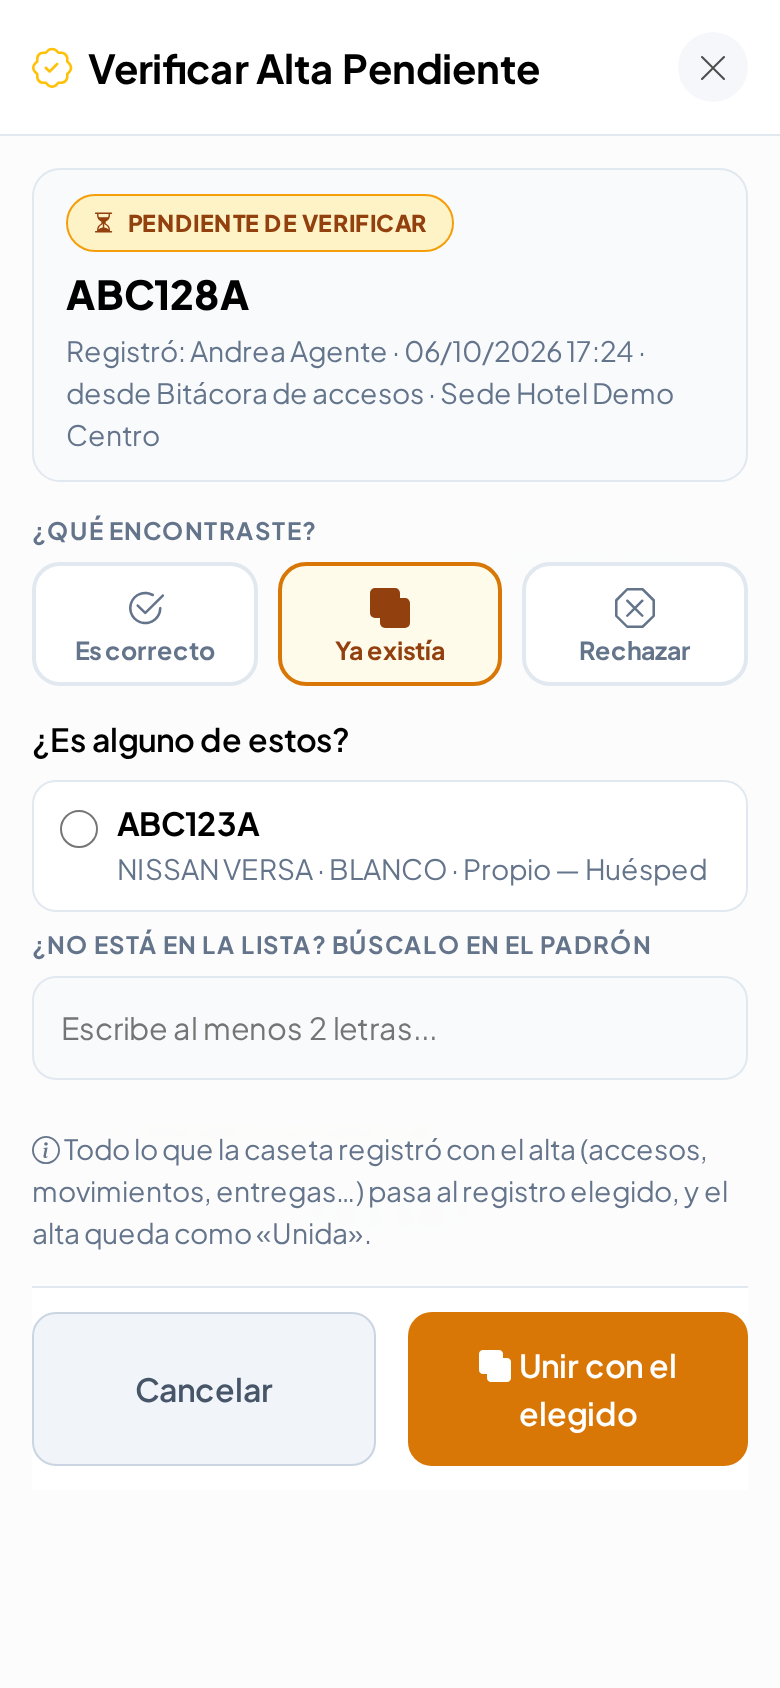
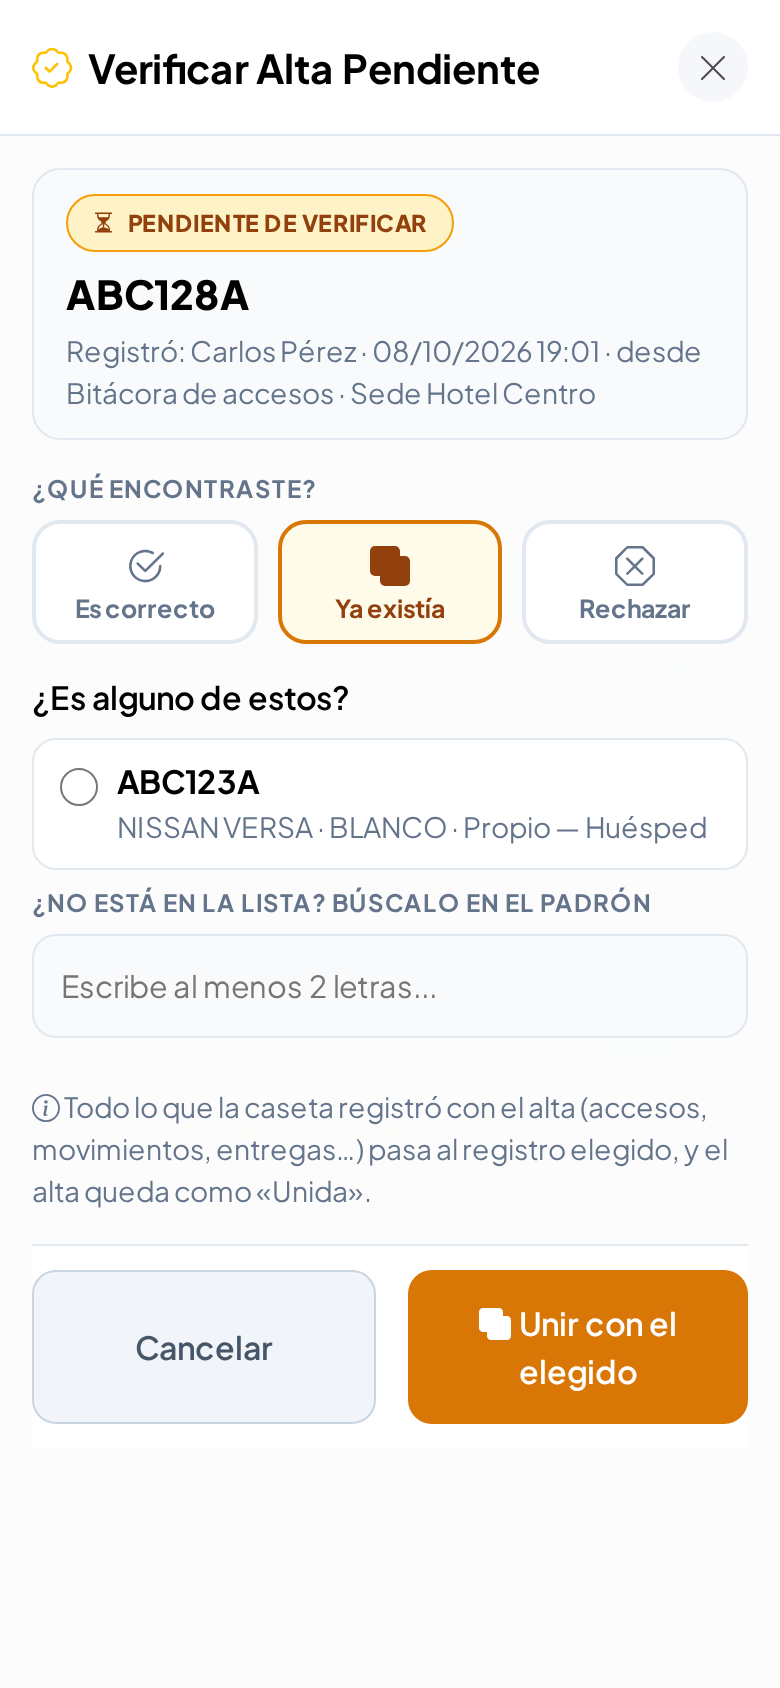
Manual: capturas finales sin datos de prueba y ligas de imágenes a carpetas de cada módulo
Claude-Session: https://claude.ai/code/session_01HFWbyfgzN5Xp5ra6LHaA61

diff --git a/docs/usuario/usuarios.md b/docs/usuario/usuarios.md
@@ -76,6 +76,8 @@ resumen: Dar de alta las cuentas para entrar a la plataforma, vincularlas con su
 
 Si escribes un **Nombre Completo** que ya tiene otra cuenta (sin importar mayúsculas ni acentos), la ventana avisa: «Ya existe un usuario con ese nombre: @… (Agente). ¿Es la misma persona? …».
 
+![Ya existe un usuario con ese nombre](img/usuarios/7-ya-existe.png)
+
 - **Si es la misma persona:** toca **Cancelar** y edita su cuenta en la lista. No hagas una segunda cuenta.
 - **Si de verdad es otra persona:** marca **Sí, es otra persona con el mismo nombre** y registra. Sin esa marca no se guarda y el aviso se repite arriba, en rojo.
 
@@ -108,6 +110,8 @@ Tras **5 intentos fallidos** seguidos, la cuenta se bloquea 15 minutos. Su ficha
 ![Cuenta bloqueada](img/usuarios/10-ficha-bloqueada.png)
 
 **Qué debes ver:** ««Pablo Díaz» desbloqueado; ya puede entrar.» El desbloqueo queda en la [Bitácora de auditoría](auditoria.md). El candado solo aparece si tu rol tiene el permiso **Desbloquear** y la persona es de nivel inferior y está en tu alcance.
+
+![Cuenta desbloqueada](img/usuarios/11-desbloqueado.png)
 
 > Si la persona olvidó su contraseña, además de desbloquearla cámbiale la contraseña con el **lápiz**.
 

diff --git a/docs/usuario/llaves.md b/docs/usuario/llaves.md
@@ -78,6 +78,8 @@ El nombre es único **dentro de su sede**: dos sedes sí pueden tener una llave 
 
 ![Nombre repetido en la sede](img/llaves/11-nombre-repetido.png)
 
+![Nombre parecido](img/llaves/10-nombre-parecido.png)
+
 ## Cómo editar una llave
 
 1. Toca el **lápiz** (Editar) en la ficha.
